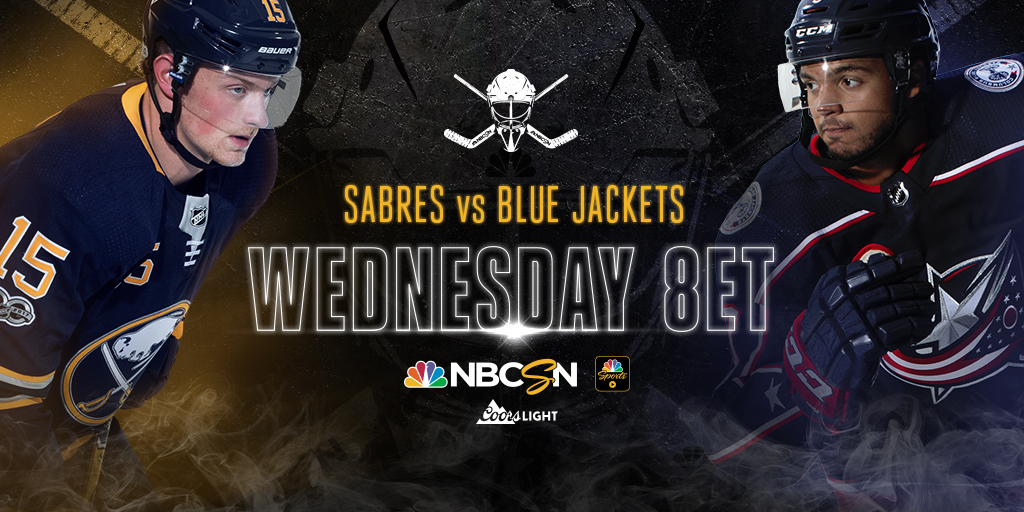
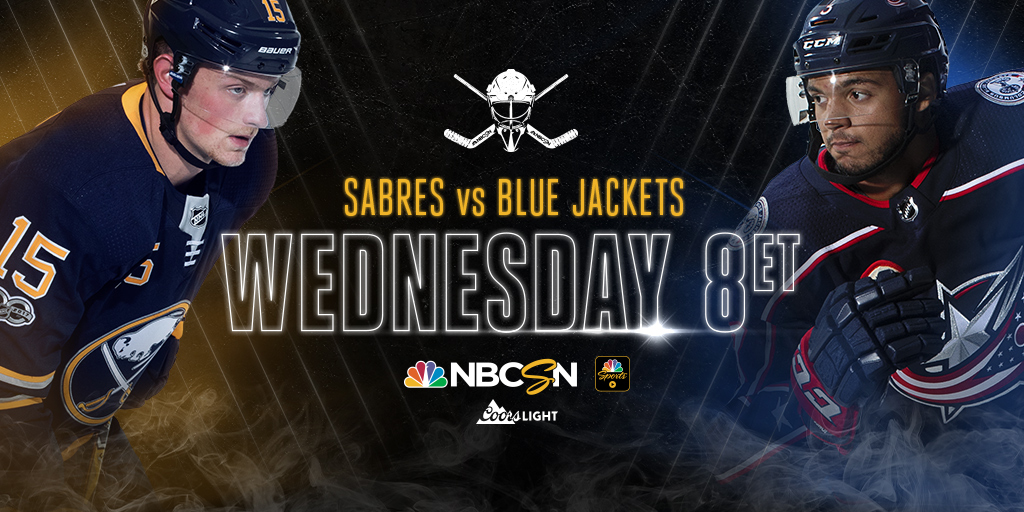
update 1024 x 512

diff --git a/102517_BUF-CLB/index.html b/102517_BUF-CLB/index.html
@@ -135,8 +135,12 @@
 					<p><object width="800" height="1200" data="html_css/content-distribution/sling_1600x2400.jpg"></object> <br /><br />
 					</p>
  -->
-					<h4>sling 1024x512</h4>
+					<h4>sling 1024x512 option 1</h4>
 					<p><object width="1024" height="512" data="html_css/content-distribution/sling_1024x512.jpg"></object> <br /><br />
+					</p>
+
+					<h4>sling 1024x512 option 2</h4>
+					<p><object width="1024" height="512" data="html_css/content-distribution/sling_1024x512-2.jpg"></object> <br /><br />
 					</p>
 
 				<!-- 	<h4>sony 1280x720</h4>
